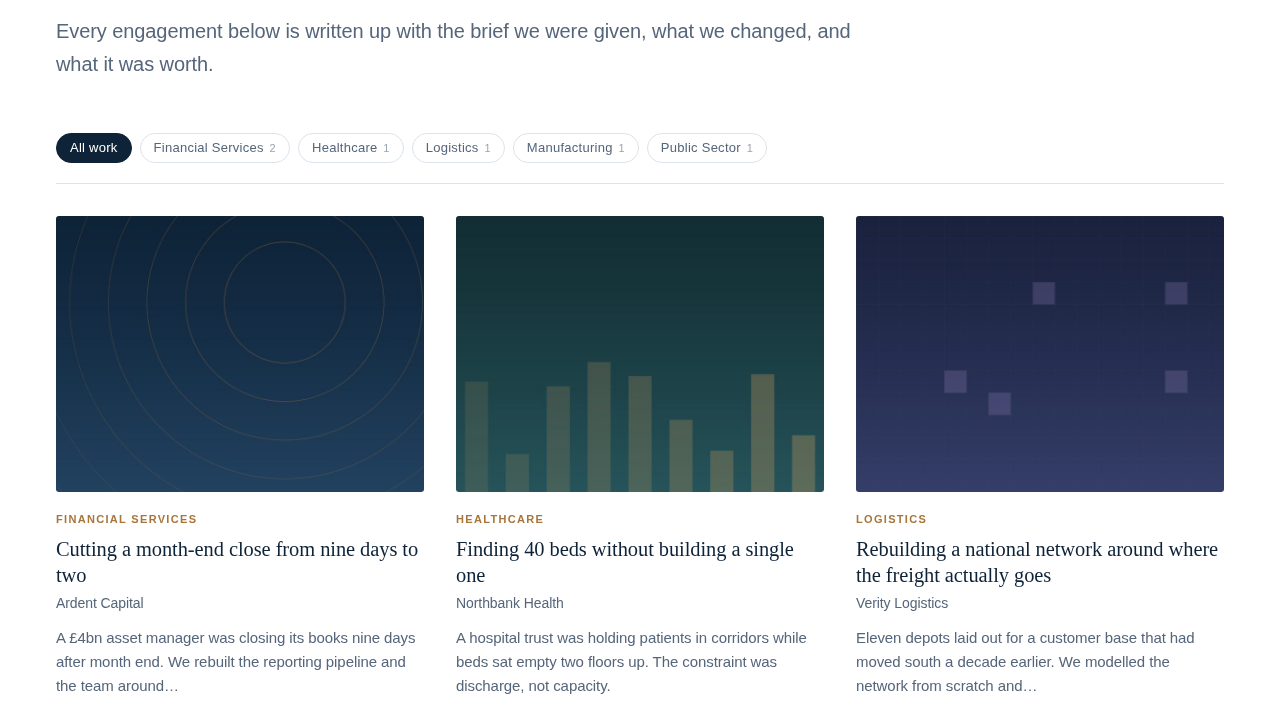
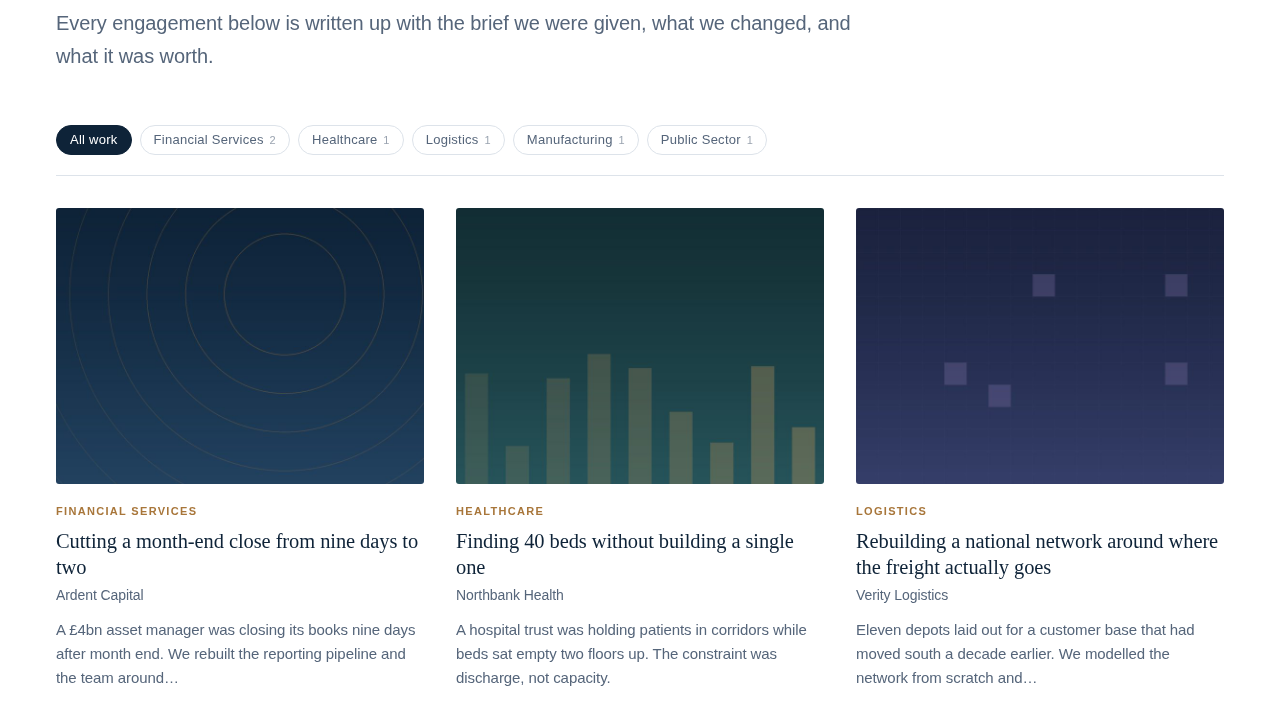
Move the homepage into the Home page so it is editable from the dashboard
The front page was assembled from patterns inside front-page.html, which
renders but cannot be edited - the client would have had to ask a developer to
change the hero. The sections are now real blocks in the Home page itself, so
the whole front page is edited under Pages like any other page.

Also drops the duplicate constrained layer in front-page and page-wide: the
root padding was being applied twice, indenting content by 112px and stopping
full-width bands from bleeding to the viewport edges.

diff --git a/wp-content/themes/meridian/templates/front-page.html b/wp-content/themes/meridian/templates/front-page.html
@@ -1,14 +1,14 @@
 <!-- wp:template-part {"slug":"header","tagName":"div","area":"header"} /-->
 
-<!-- wp:group {"tagName":"main","metadata":{"name":"Main"},"layout":{"type":"constrained"}} -->
+<!-- wp:group {"tagName":"main","metadata":{"name":"Main"},"layout":{"type":"default"}} -->
 <main class="wp-block-group" id="main">
 
-	<!-- wp:pattern {"slug":"meridian/hero"} /-->
-	<!-- wp:pattern {"slug":"meridian/logo-wall"} /-->
-	<!-- wp:pattern {"slug":"meridian/selected-work"} /-->
-	<!-- wp:pattern {"slug":"meridian/capabilities"} /-->
-	<!-- wp:pattern {"slug":"meridian/proof"} /-->
-	<!-- wp:pattern {"slug":"meridian/cta"} /-->
+	<!-- The homepage sections live in the Home page itself, not in this
+	     template, so the whole front page is editable under Pages -> Home
+	     like any other page. The wrapper deliberately uses the default layout:
+	     a second constrained layer would apply the root padding twice and
+	     stop full-width bands from bleeding to the edges. -->
+	<!-- wp:post-content {"layout":{"type":"constrained","wideSize":"78rem"}} /-->
 
 </main>
 <!-- /wp:group -->

diff --git a/wp-content/themes/meridian/templates/page-wide.html b/wp-content/themes/meridian/templates/page-wide.html
@@ -1,6 +1,6 @@
 <!-- wp:template-part {"slug":"header","tagName":"div","area":"header"} /-->
 
-<!-- wp:group {"tagName":"main","metadata":{"name":"Main"},"layout":{"type":"constrained","wideSize":"78rem"}} -->
+<!-- wp:group {"tagName":"main","metadata":{"name":"Main"},"layout":{"type":"default"}} -->
 <main class="wp-block-group" id="main">
 	<!-- wp:post-content {"layout":{"type":"constrained","wideSize":"78rem"}} /-->
 </main>

diff --git a/tools/seed-demo.php b/tools/seed-demo.php
@@ -406,8 +406,25 @@ function bcms_seed_pattern( string $slug ): string {
 $pages = array(
 	'home'     => array(
 		'title'    => 'Home',
-		'content'  => '',
 		'template' => '',
+		// Expanded into real blocks rather than left to the template, so the
+		// homepage is editable under Pages → Home like every other page.
+		'content'  => implode(
+			"\n\n",
+			array_filter(
+				array_map(
+					'bcms_seed_pattern',
+					array(
+						'meridian/hero',
+						'meridian/logo-wall',
+						'meridian/selected-work',
+						'meridian/capabilities',
+						'meridian/proof',
+						'meridian/cta',
+					)
+				)
+			)
+		),
 	),
 	'about'    => array(
 		'title'    => 'About',
